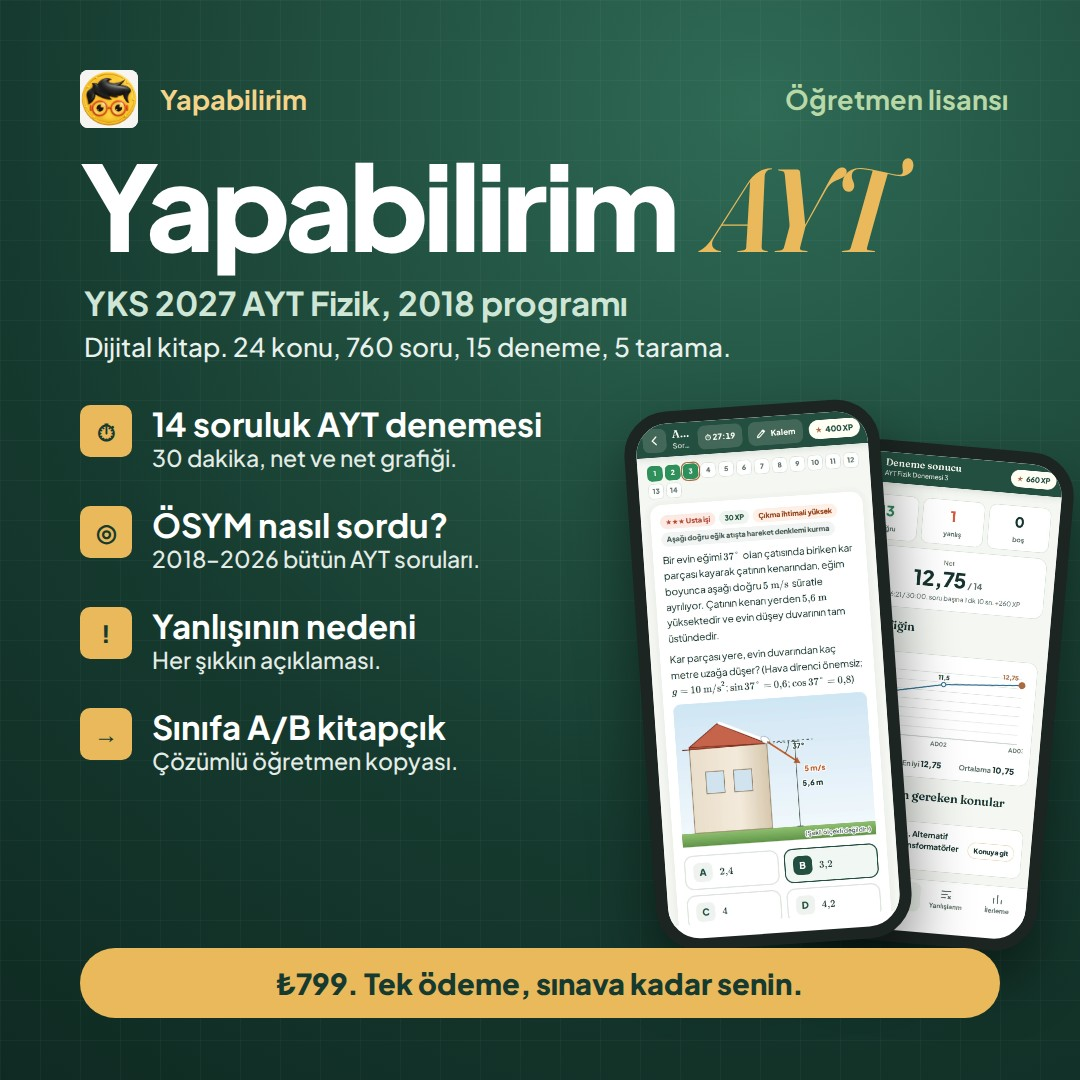
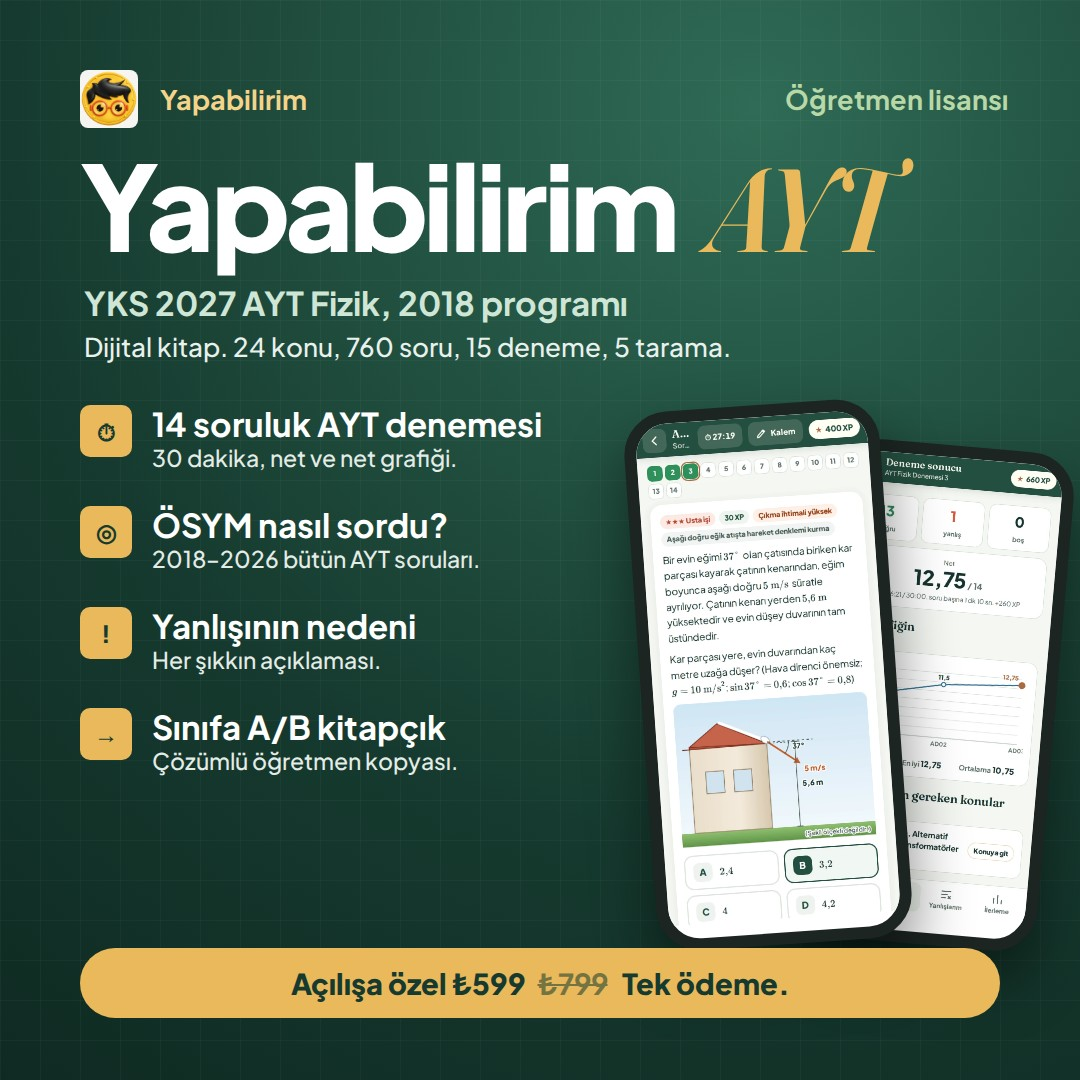
YKS 2027 AYT: açılışa özel 599 TL (799 yerine)
Claude-Session: https://claude.ai/code/session_01XTyKSvWY5iUVuja4d6Lgs6

Changed region(s): [[0.2444, 0.8861, 0.7333, 0.9472]]

diff --git a/yks2027-ayt-fizik.html b/yks2027-ayt-fizik.html
@@ -33,8 +33,8 @@
   "url": "https://benfizikyapamiyorum.com/yks2027-ayt-fizik.html",
   "brand": {"@type": "Brand", "name": "Ben Fizik Yapamıyorum"},
   "offers": [
-    {"@type": "Offer", "name": "Yapabilirim AYT 2027 Dijital Kitap – Öğrenci", "price": "799", "priceCurrency": "TRY", "availability": "https://schema.org/InStock", "url": "https://benfizikyapamiyorum.com/yks2027-ayt-fizik.html#fiyat"},
-    {"@type": "Offer", "name": "Yapabilirim AYT 2027 Dijital Kitap – Öğretmen", "price": "799", "priceCurrency": "TRY", "availability": "https://schema.org/InStock", "url": "https://benfizikyapamiyorum.com/yks2027-ayt-fizik.html#fiyat"}
+    {"@type": "Offer", "name": "Yapabilirim AYT 2027 Dijital Kitap – Öğrenci", "price": "599", "priceCurrency": "TRY", "availability": "https://schema.org/InStock", "url": "https://benfizikyapamiyorum.com/yks2027-ayt-fizik.html#fiyat"},
+    {"@type": "Offer", "name": "Yapabilirim AYT 2027 Dijital Kitap – Öğretmen", "price": "599", "priceCurrency": "TRY", "availability": "https://schema.org/InStock", "url": "https://benfizikyapamiyorum.com/yks2027-ayt-fizik.html#fiyat"}
   ]
 }
 </script>
@@ -145,6 +145,7 @@
 @media(max-width:900px){.p11 .icinde{grid-template-columns:1fr 1fr}}
 @media(max-width:600px){.p11 .icinde{grid-template-columns:1fr}}
 .p11 .unite h3{overflow-wrap:break-word}
+.p11 .eski-fiyat{margin-top:14px;font-size:15px;color:var(--muted);display:flex;gap:10px;align-items:center}.p11 .eski-fiyat s{font-weight:700}.p11 .eski-fiyat span{background:var(--clay);color:#fff;font-size:11px;font-weight:800;letter-spacing:.08em;text-transform:uppercase;padding:4px 10px;border-radius:999px}.p11 .eski-fiyat+.tutar{margin-top:2px}
 </style>
 </head>
 <body id="top" class="p11"><header class="site-header"><div class="header-inner"><a class="brand" href="index.html" aria-label="Ben Fizik Yapamıyorum — Ana sayfa"><img src="bfy-logo-3d.webp" alt="" width="42" height="42"><span>Ben Fizik<br><strong>Yapamıyorum.</strong></span></a><button class="menu-toggle" aria-expanded="false" aria-controls="main-nav">Menü <span aria-hidden="true">☰</span></button><nav id="main-nav" aria-label="Ana menü"><a href="materyaller.html#paketler">Hoca Kitleri</a><a href="index.html#kitaplar">Kitaplar</a><a href="materyaller.html#sinav-paketleri">Sınav Paketleri</a><a href="index.html#ucretsiz-kaynaklar">Ücretsiz Kaynaklar</a><details class="nav-more"><summary>Keşfet <span aria-hidden="true">⌄</span></summary><div><a href="yks.html">Dersler &amp; YKS</a><a href="simulasyonlar.html">Simülasyonlar</a><a href="testler.html">Online testler</a><a href="videolar.html">Video anlatımlar</a><a href="deneyler.html">Deneyler</a><a href="oyunlar.html">Fizik oyunları</a><a href="grup-yarisi.html">Grup yarışı</a><a href="maarif.html">Maarif modeli</a><a href="fizik-yillik-plani-indir.html">Yıllık planlar</a><a href="index.html#fizo">Fizo</a><a href="index.html#hocam">HocaMeet</a><a href="hakkimda.html">Timur Hoca hakkında</a></div></details><details class="nav-more"><summary>Yapabilirim <span aria-hidden="true">⌄</span></summary><div><a href="9-sinif-fizik-paketi.html">Yapabilirim 9</a><a href="10-sinif-fizik-paketi.html">Yapabilirim 10</a><a href="11-sinif-fizik-paketi.html">Yapabilirim 11</a><a href="tyt-fizik-paketi.html">Yapabilirim TYT</a></div></details><a class="nav-cta" href="index.html#magaza">Ürünleri gör <span aria-hidden="true">↗</span></a></nav></div></header><main id="main"><section class="container hero11">
@@ -154,7 +155,7 @@
     <p class="slogan">Fizik yapamıyorum demeyi bırak.</p>
     <span class="urun-tur">YKS 2027 AYT (2. oturum) fizik dijital kitabı</span>
     <p class="lead">11 ve 12. sınıf konuları AYT sırasıyla: kısa konu özetleri, çözümlü örnekler, ÖSYM'nin her konuyu nasıl sorduğunun analizi ve gerçek AYT fizik bölümü gibi 14 soruluk, 30 dakikalık süreli denemeler. Netini gör, net grafiğinde ilerlemeni izle.</p>
-    <div class="btns"><a class="b b-ana" href="#fiyat">Fiyatı gör <span aria-hidden="true">↓</span></a><a class="b b-cizgi" href="yks2027-ayt/">Ücretsiz dene <span aria-hidden="true">↗</span></a></div>
+    <div class="btns"><a class="b b-ana" href="#fiyat">Açılışa özel ₺599 <span aria-hidden="true">↓</span></a><a class="b b-cizgi" href="yks2027-ayt/">Ücretsiz dene <span aria-hidden="true">↗</span></a></div>
     <p class="not-kucuk">Ücretsiz sürümde AD01 denemesi ile her konunun özeti, çözümlü örnekleri ve 4 sorusu açık. Üyelik ya da kayıt yok.</p>
   </div>
   <div class="c3d-sahne f11-sahne p11-sahne" data-c3d data-gen="660" data-gen-mobil="600" aria-hidden="true">
@@ -236,13 +237,13 @@
   <div class="fiyatlar">
     <div class="fiyat one">
       <span class="kim">Öğrenci</span><h3>Yapabilirim AYT 2027&nbsp;– Öğrenci</h3><p class="alt" style="margin:-2px 0 0">Dijital kitap, öğrenci lisansı</p>
-      <div class="tutar">₺799</div><div class="alt">Tek ödeme, senin adına kayıtlı</div>
+      <div class="eski-fiyat"><s>₺799</s> <span>Açılışa özel</span></div><div class="tutar">₺599</div><div class="alt">Tek ödeme, senin adına kayıtlı</div>
       <ul><li>24 konunun özeti ve 760 sorunun tamamı</li><li>15 AYT denemesi ve 5 ünite taraması</li><li>ÖSYM analizi ve soru tipi atlası</li><li>Net, süre takibi ve net grafiği</li><li>94 çözümlü örnek, her yanlış şıkkın nedeni</li><li>Yazdırılabilir deneme ve konu kitapçıkları</li></ul>
       <a class="b b-ana" data-urun="ogrAYT27" href="SHOPIER_OGR_AYT27" target="_blank" rel="noopener noreferrer">Öğrenci lisansı al <span aria-hidden="true">↗</span></a>
     </div>
     <div class="fiyat">
       <span class="kim">Öğretmen</span><h3>Yapabilirim AYT 2027&nbsp;– Öğretmen</h3><p class="alt" style="margin:-2px 0 0">Dijital kitap, öğretmen lisansı</p>
-      <div class="tutar">₺799</div><div class="alt">Tek ödeme, sınıfınız için sınırsız kâğıt</div>
+      <div class="eski-fiyat"><s>₺799</s> <span>Açılışa özel</span></div><div class="tutar">₺599</div><div class="alt">Tek ödeme, sınıfınız için sınırsız kâğıt</div>
       <ul><li>Öğrenci lisansındaki her şey</li><li>Derste tahtaya yansıtılacak özetler ve sorular</li><li>Sınıfa deneme ve tarama kitapçığı, A/B formu</li><li>Soru altında çözümlü öğretmen kopyası ve cevap anahtarı</li><li>İstediğin konulardan ödev ve çalışma kâğıdı</li></ul>
       <a class="b b-cizgi" data-urun="hocaAYT27" href="SHOPIER_HOCA_AYT27" target="_blank" rel="noopener noreferrer">Öğretmen lisansı al <span aria-hidden="true">↗</span></a>
     </div>
